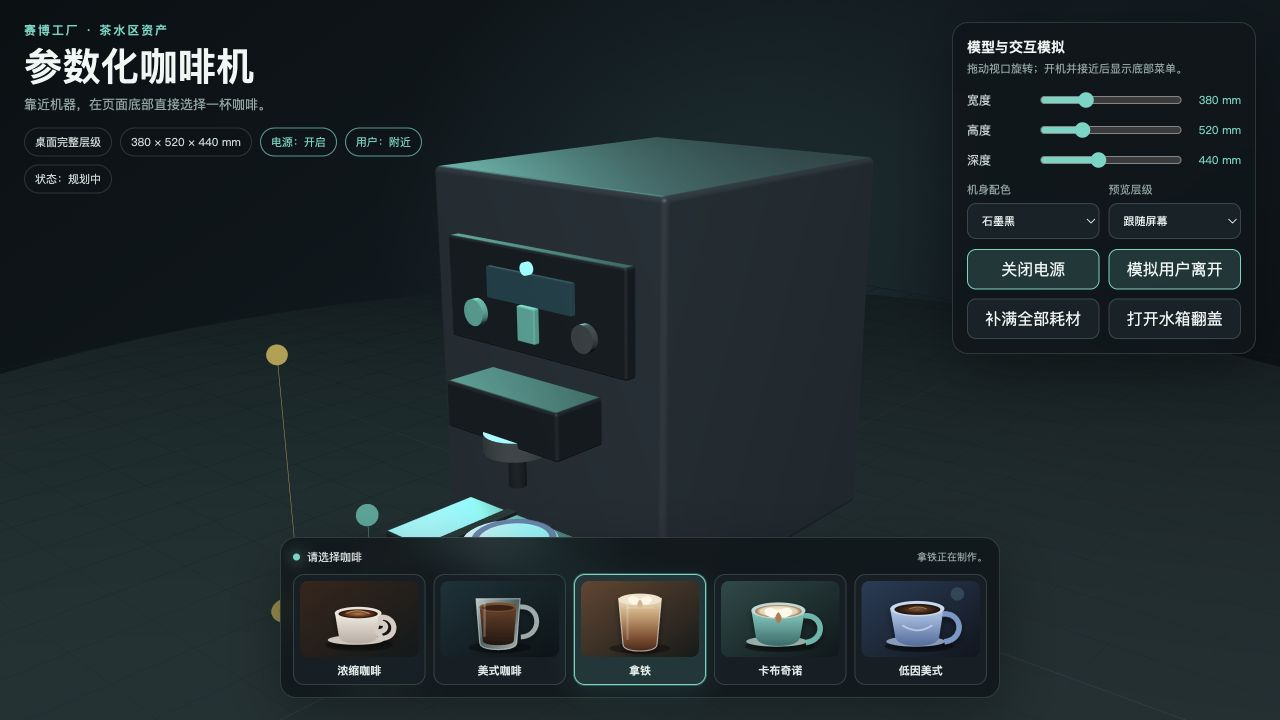
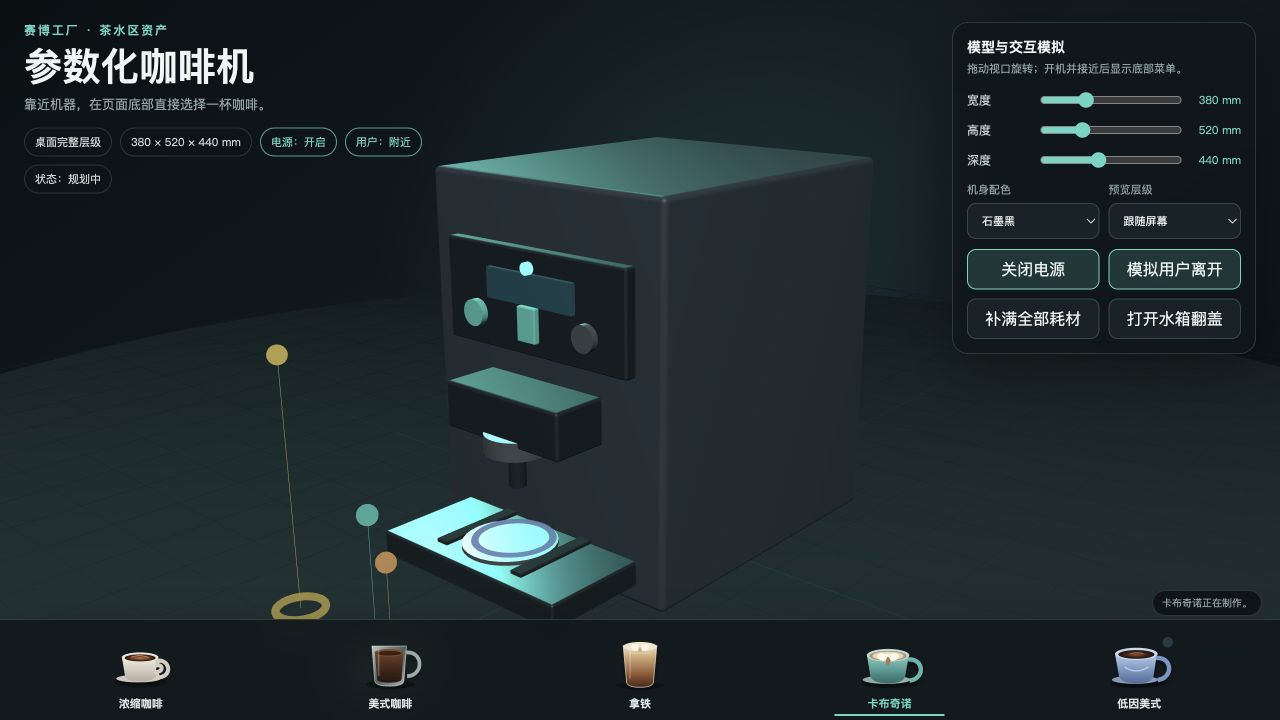
将咖啡菜单改为全宽滚动底栏

diff --git a/domain-packages/cyber-factory/models/coffee-machine/preview.html b/domain-packages/cyber-factory/models/coffee-machine/preview.html
@@ -110,86 +110,101 @@
 
       .virtual-menu {
         position: absolute;
-        bottom: 22px;
-        left: 50%;
-        width: min(720px, calc(100% - 48px));
-        border-radius: 16px;
-        padding: 10px 12px 12px;
+        right: 0;
+        bottom: 0;
+        left: 0;
+        width: 100%;
+        border-width: 1px 0 0;
+        border-radius: 0;
+        padding: 8px 16px 4px;
         opacity: 0;
         pointer-events: none;
-        transform: translate(-50%, 14px) scale(0.98);
+        transform: translateY(100%);
         transform-origin: bottom center;
         transition: opacity 180ms ease, transform 180ms ease;
       }
       .virtual-menu[data-visible="true"] {
         opacity: 1;
         pointer-events: auto;
-        transform: translate(-50%, 0) scale(1);
+        transform: translateY(0);
       }
-      .menu-topline {
-        display: flex;
-        justify-content: space-between;
-        gap: 12px;
-        align-items: center;
-        min-height: 18px;
-        margin-bottom: 8px;
+      .brew-feedback {
+        position: absolute;
+        top: -30px;
+        right: 18px;
+        border: 1px solid var(--line);
+        border-radius: 999px;
+        background: rgba(10, 18, 21, 0.88);
+        color: var(--muted);
+        padding: 5px 9px;
+        font-size: 10px;
+        text-align: right;
       }
-      .menu-prompt { display: flex; gap: 7px; align-items: center; color: #d5e3e0; font-size: 11px; }
-      .sensor-pulse {
-        width: 7px;
-        height: 7px;
-        border-radius: 50%;
-        background: var(--accent);
-        box-shadow: 0 0 14px var(--accent);
-      }
-      .brew-feedback { color: var(--muted); font-size: 10px; text-align: right; }
+      .brew-feedback:empty { display: none; }
       .brew-feedback[data-error="true"] { color: var(--danger); }
 
       .recipe-grid {
-        display: grid;
-        grid-template-columns: repeat(5, minmax(0, 1fr));
-        gap: 8px;
+        display: flex;
+        width: 100%;
+        overflow-x: auto;
+        overscroll-behavior-x: contain;
+        scroll-snap-type: x proximity;
+        scrollbar-color: rgba(88, 215, 197, 0.55) transparent;
+        scrollbar-width: thin;
+        touch-action: pan-x;
       }
+      .recipe-grid::-webkit-scrollbar { height: 4px; }
+      .recipe-grid::-webkit-scrollbar-track { background: transparent; }
+      .recipe-grid::-webkit-scrollbar-thumb { border-radius: 999px; background: rgba(88, 215, 197, 0.55); }
       .coffee-choice {
         position: relative;
+        flex: 1 0 150px;
         min-width: 0;
-        border: 1px solid rgba(126, 170, 164, 0.24);
-        border-radius: 11px;
-        background: rgba(20, 32, 37, 0.88);
+        min-height: 88px;
+        border: 0;
+        border-radius: 0;
+        background: transparent;
         color: var(--ink);
-        padding: 6px;
+        padding: 0 16px 3px;
+        scroll-snap-align: center;
         cursor: pointer;
       }
       .coffee-choice:hover,
       .coffee-choice:focus-visible {
-        border-color: var(--accent);
         outline: none;
-        background: rgba(31, 56, 59, 0.92);
-      }
-      .coffee-choice[data-selected="true"] {
-        border-color: var(--accent);
-        box-shadow: 0 0 0 1px rgba(88, 215, 197, 0.3), 0 8px 24px rgba(31, 133, 124, 0.22);
       }
       .coffee-choice:disabled { cursor: not-allowed; opacity: 0.48; }
       .coffee-image {
         display: block;
         width: 100%;
-        height: 76px;
-        border-radius: 8px;
-        object-fit: cover;
+        height: 64px;
+        object-fit: contain;
         user-select: none;
+        transition: filter 150ms ease, transform 150ms ease;
       }
+      .coffee-choice:hover .coffee-image,
+      .coffee-choice:focus-visible .coffee-image { filter: brightness(1.08); transform: translateY(-2px); }
       .coffee-name {
         display: block;
         min-width: 0;
         overflow: hidden;
-        margin-top: 6px;
+        margin-top: 2px;
         color: #dce9e6;
         font-size: 11px;
         font-weight: 600;
         text-align: center;
         text-overflow: ellipsis;
         white-space: nowrap;
+      }
+      .coffee-choice[data-selected="true"] .coffee-name { color: var(--accent); }
+      .coffee-choice[data-selected="true"]::after {
+        position: absolute;
+        right: 28%;
+        bottom: 0;
+        left: 28%;
+        height: 2px;
+        background: var(--accent);
+        content: "";
       }
       .coffee-unavailable {
         position: absolute;
@@ -213,7 +228,7 @@
         .controls {
           top: auto;
           right: 12px;
-          bottom: 142px;
+          bottom: 108px;
           left: 12px;
           width: auto;
           border-radius: 14px;
@@ -227,19 +242,13 @@
         .action-button { min-height: 32px; padding: 5px 7px; font-size: 10px; }
 
         .virtual-menu {
-          bottom: 10px;
-          width: calc(100% - 20px);
-          border-radius: 14px;
-          padding: 8px;
+          padding: 5px 0 3px;
         }
-        .menu-topline { min-height: 14px; margin-bottom: 6px; }
-        .menu-prompt { gap: 5px; font-size: 9px; }
-        .sensor-pulse { width: 5px; height: 5px; }
-        .brew-feedback { max-width: 55%; font-size: 8px; }
-        .recipe-grid { gap: 5px; }
-        .coffee-choice { border-radius: 8px; padding: 4px; }
-        .coffee-image { height: 50px; border-radius: 6px; }
-        .coffee-name { margin-top: 4px; font-size: 9px; }
+        .brew-feedback { top: -27px; right: 10px; padding: 4px 7px; font-size: 8px; }
+        .recipe-grid { padding: 0 8px; }
+        .coffee-choice { flex: 0 0 104px; min-height: 82px; padding: 0 8px 3px; }
+        .coffee-image { height: 58px; }
+        .coffee-name { margin-top: 1px; font-size: 9px; }
         .coffee-unavailable { top: 7px; right: 7px; padding: 2px 4px; font-size: 7px; }
       }
     </style>
@@ -268,11 +277,8 @@
         aria-hidden="true"
         aria-label="咖啡菜单"
       >
-        <div class="menu-topline">
-          <span class="menu-prompt"><i class="sensor-pulse"></i>请选择咖啡</span>
-          <span class="brew-feedback" id="brew-feedback" role="status" aria-live="polite"></span>
-        </div>
-        <div class="recipe-grid" id="recipe-grid"></div>
+        <span class="brew-feedback" id="brew-feedback" role="status" aria-live="polite"></span>
+        <div class="recipe-grid" id="recipe-grid" aria-label="可横向滚动的咖啡列表"></div>
       </section>
 
       <section class="controls" aria-label="预览参数与交互">

diff --git a/domain-packages/cyber-factory/models/coffee-machine/README.md b/domain-packages/cyber-factory/models/coffee-machine/README.md
@@ -7,8 +7,8 @@
 - `model.ts`：可调整宽度、高度、深度与石墨黑、瓷白、钴蓝三种配色的硬朗工业几何工厂；外壳仅保留 2–8 mm 小倒角。
 - `operations.ts`：可配置的容量、初始库存和单杯配方；内部维护水、牛奶与阿拉比卡、罗布斯塔、低因三类豆仓，提供库存预检、原子扣减与补满操作。
 - `manifest.ts`：稳定 ID、材质槽、地面基准、机身/托盘碰撞体、电源/接近菜单触发/制作/取杯/杯位/补水锚点、水箱翻盖关节，以及桌面和移动 LOD。
-- `images/*.svg`：浓缩、美式、拿铁、卡布奇诺和低因美式五张本地饮品图片，不依赖远程资源。
-- `preview.html` / `preview.ts`：不依赖公共 registry 的独立交互预览，可调整参数、切换电源与指示灯状态、模拟用户接近、从页面底部的图片菜单选择咖啡，并开合水箱翻盖。
+- `images/*.svg`：浓缩、美式、拿铁、卡布奇诺和低因美式五张透明背景本地饮品图片，不依赖远程资源。
+- `preview.html` / `preview.ts`：不依赖公共 registry 的独立交互预览，可调整参数、切换电源与指示灯状态、模拟用户接近、从贴边全宽且可横向滚动的底部图片栏选择咖啡，并开合水箱翻盖。
 - `coffee-machine.test.ts` / `operations.test.ts`：契约、参数边界、稳定 ID、锚点、移动 LOD、配方差异、库存配置和原子扣减测试。
 - `tsconfig.json`：独立覆盖资产工厂、测试和预览代码的严格类型检查。
 
@@ -22,7 +22,7 @@ npx vite --host 127.0.0.1
 
 打开 `/domain-packages/cyber-factory/models/coffee-machine/preview.html`。窄屏会自动切换至移动 LOD，可通过右上角设备选择器显式切换。
 
-预览中的菜单只在电源开启且模拟用户进入正面接近范围后显示。页面底部只展示饮品图片和名称，不向饮用者展示水量、奶量、豆种或库存等内部细节。选择饮品仍会按照配方在内部扣减库存；容量、初始库存和配方均可通过 `operations.ts` 导出的纯函数与类型配置。
+预览中的菜单只在电源开启且模拟用户进入正面接近范围后显示。底栏完整贴住页面左右和底边，饮品项没有卡片背景或边框；桌面端自动均分，窄屏通过触摸或滚轮横向滚动。界面只展示饮品图片和名称，不向饮用者展示水量、奶量、豆种或库存等内部细节。选择饮品仍会按照配方在内部扣减库存；容量、初始库存和配方均可通过 `operations.ts` 导出的纯函数与类型配置。
 
 > 资产模块仍为 `planned`。当前交付了可复用计算逻辑、接近锚点语义和独立预览，但公共运行时尚未接入接近事件、菜单投影与库存动作。
 
